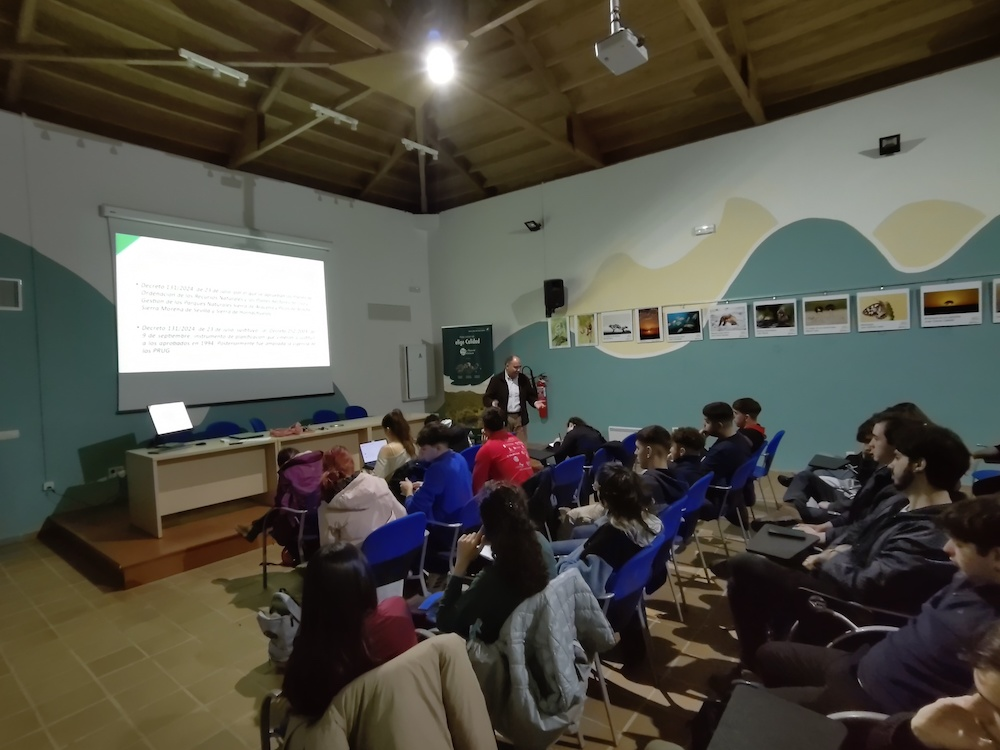
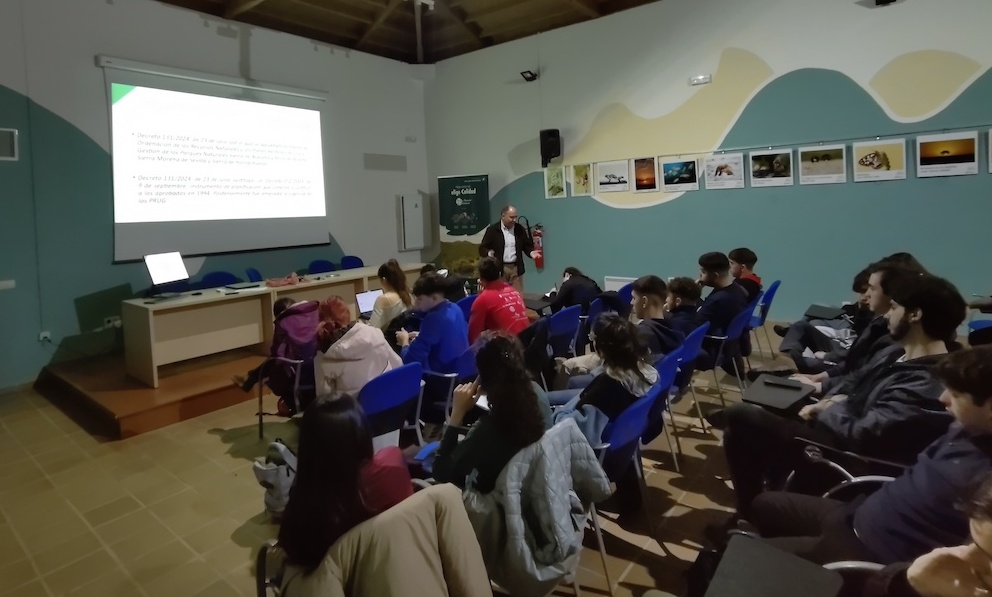
Recortar foto

diff --git a/guion_hornachuelos_gesteco.md b/guion_hornachuelos_gesteco.md
@@ -146,7 +146,7 @@ La actividad implicó un coste total de 5620 €. La financiación corrió a car
 
   
 
-
+![jorge1](https://raw.githubusercontent.com/aprendiendo-cosas/C_hornachuelos_gesteco_ccaa/refs/heads/main/imagenes/jorge1.jpg)
 
 
 
